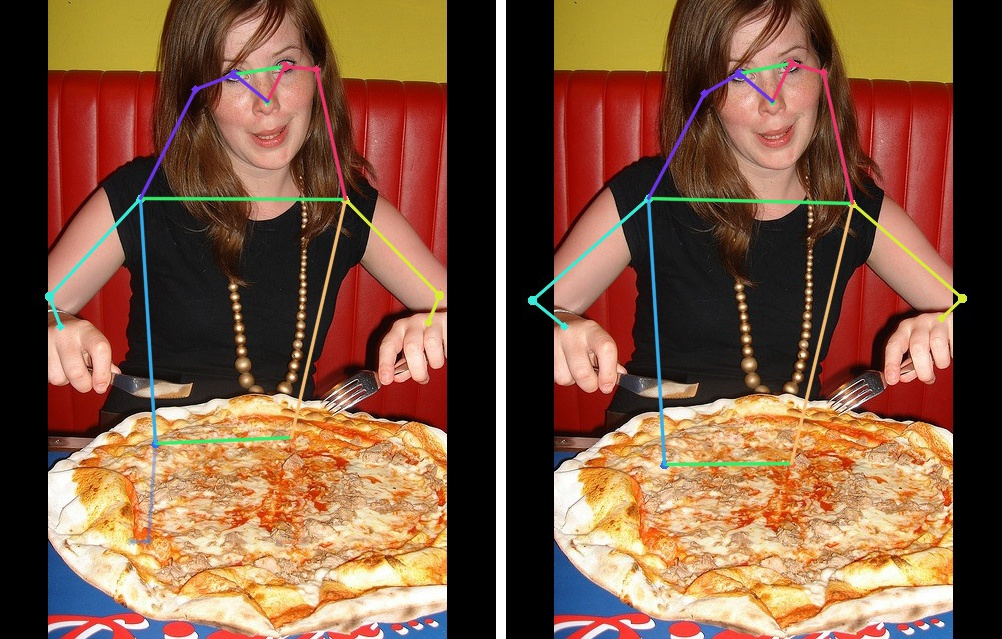
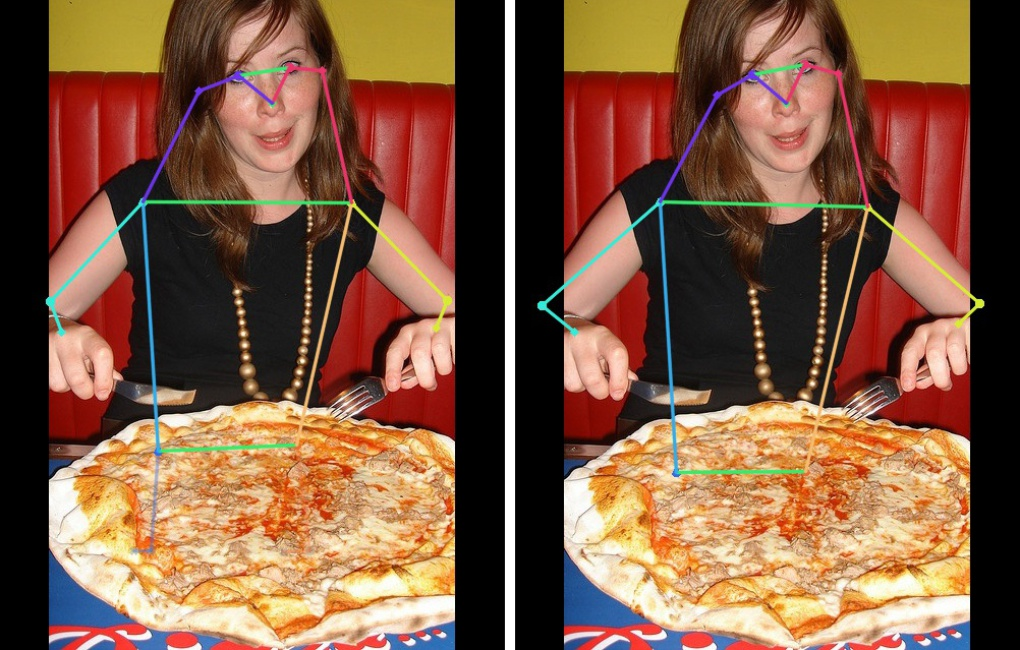
set image width to 1020

diff --git a/index.html b/index.html
@@ -271,77 +271,77 @@ End youtube video -->
         <div id="results-carousel" class="carousel results-carousel" style="margin-top: 0;padding-top: 0;">
           
           <div class="item">
-            <img src="static/images/000000004134_concatenated.jpg" alt="" style="max-width: 100%; height: auto;" />
+            <img src="static/images/000000004134_concatenated.jpg" alt="" style="width: 1020; height: auto;" />
             <h2 class="subtitle has-text-centered">
               0004143.
             </h2>
           </div>
 
           <div class="item">
-            <img src="static/images/000000108495_concatenated.jpg" alt="" style="max-width: 100%; height: auto;" />
+            <img src="static/images/000000108495_concatenated.jpg" alt="" style="width: 1020; height: auto;" />
             <h2 class="subtitle has-text-centered">
               00108495.
             </h2>
           </div>
 
           <div class="item">
-            <img src="static/images/581790_concatenated.jpg" alt="" style="max-width: 100%; height: auto;" />
+            <img src="static/images/581790_concatenated.jpg" alt="" style="width: 1020; height: auto;" />
             <h2 class="subtitle has-text-centered">
               581790.
             </h2>
           </div>
         
           <div class="item">
-            <img src="static/images/581802_concatenated.jpg" alt="" style="max-width: 100%; height: auto;" />
+            <img src="static/images/581802_concatenated.jpg" alt="" style="width: 1020; height: auto;" />
             <h2 class="subtitle has-text-centered">
               581802.
             </h2>
           </div>
         
           <div class="item">
-            <img src="static/images/581885_concatenated.jpg" alt="" style="max-width: 100%; height: auto;" />
+            <img src="static/images/581885_concatenated.jpg" alt="" style="width: 1020; height: auto;" />
             <h2 class="subtitle has-text-centered">
               581885.
             </h2>
           </div>
         
           <div class="item">
-            <img src="static/images/581887_concatenated.jpg" alt="" style="max-width: 100%; height: auto;" />
+            <img src="static/images/581887_concatenated.jpg" alt="" style="width: 1020; height: auto;" />
             <h2 class="subtitle has-text-centered">
               581887.
             </h2>
           </div>
         
           <div class="item">
-            <img src="static/images/581906_concatenated.jpg" alt="" style="max-width: 100%; height: auto;" />
+            <img src="static/images/581906_concatenated.jpg" alt="" style="width: 1020; height: auto;" />
             <h2 class="subtitle has-text-centered">
               581906.
             </h2>
           </div>
         
           <div class="item">
-            <img src="static/images/581928_concatenated.jpg" alt="" style="max-width: 100%; height: auto;" />
+            <img src="static/images/581928_concatenated.jpg" alt="" style="width: 1020; height: auto;" />
             <h2 class="subtitle has-text-centered">
               581928.
             </h2>
           </div>
         
           <div class="item">
-            <img src="static/images/581964_concatenated.jpg" alt="" style="max-width: 100%; height: auto;" />
+            <img src="static/images/581964_concatenated.jpg" alt="" style="width: 1020; height: auto;" />
             <h2 class="subtitle has-text-centered">
               581964.
             </h2>
           </div>
         
           <div class="item">
-            <img src="static/images/mclaughlin_paris2_crop_tb_669_concat.png" alt="" style="max-width: 100%; height: auto;" />
+            <img src="static/images/mclaughlin_paris2_crop_tb_669_concat.png" alt="" style="width: 1020; height: auto;" />
             <h2 class="subtitle has-text-centered">
               Fourth image description.
             </h2>
           </div>
         
           <div class="item">
-            <img src="static/images/mclaughlin_paris_crop_lr_532_concat.png" alt="" style="max-width: 100%; height: auto;" />
+            <img src="static/images/mclaughlin_paris_crop_lr_532_concat.png" alt="" style="width: 1020; height: auto;" />
             <h2 class="subtitle has-text-centered">
               Fourth image description.
             </h2>

diff --git a/static/images/concat_images.py b/static/images/concat_images.py
@@ -4,7 +4,7 @@ import os
 
 def concat_images(directory):
     # Get all image files in the directory
-    image_files = [f for f in os.listdir(directory) if os.path.isfile(os.path.join(directory, f)) and (f.endswith('.jpg') or f.endswith('.png'))]
+    image_files = [f for f in os.listdir(directory) if os.path.isfile(os.path.join(directory, f)) and (f.endswith('.jpg') or f.endswith('.png')) and 'concatenated' not in f]
 
     # Group images by prefix
     image_groups = {}
@@ -32,6 +32,11 @@ def concat_images(directory):
 
         # Concatenate the images horizontally
         concat_image = cv2.hconcat([left_image, white_column, right_image])
+
+        # Resize the concatenated image to the same width
+        new_width = 1020
+        new_height = int(concat_image.shape[0] * (new_width / concat_image.shape[1]))
+        concat_image = cv2.resize(concat_image, (new_width, new_height)) 
 
         # Save the concatenated image
         output_path = os.path.join(directory, f'{prefix}_concatenated.jpg')
